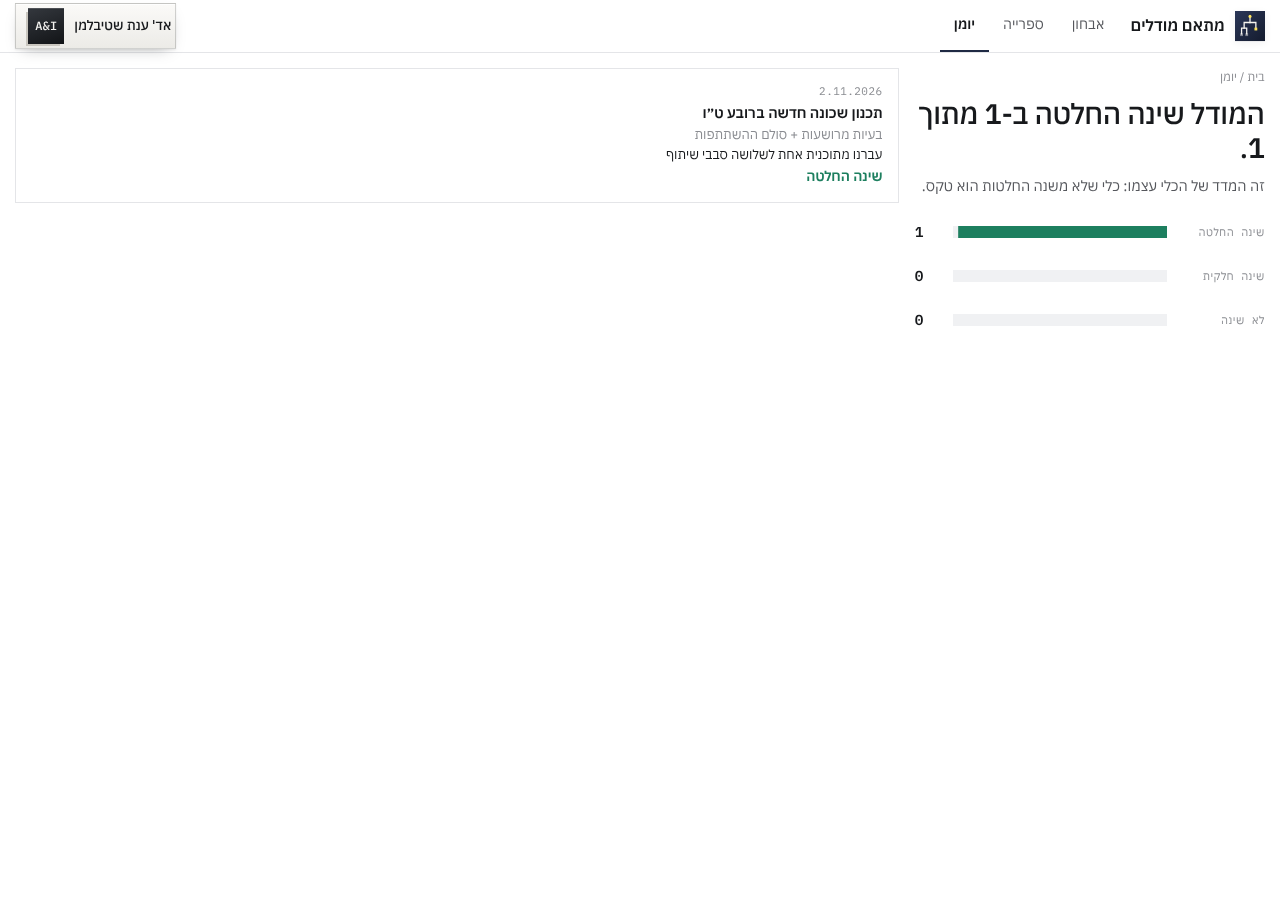
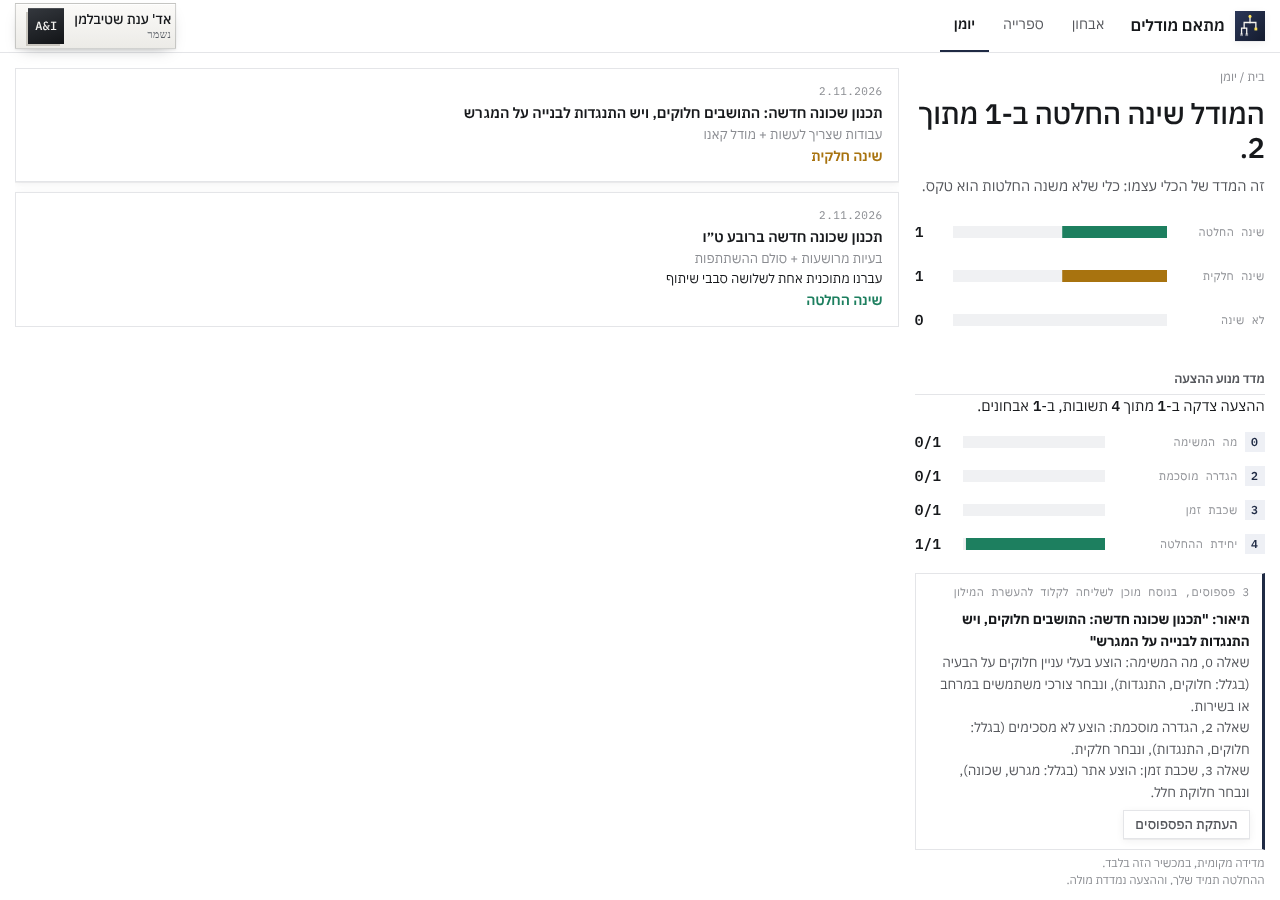
מדד מנוע ההצעה: ההצעה מול הבחירה, והפספוסים ביומן להעשרת המילון
Claude-Session: https://claude.ai/code/session_018qeN19UF5UhFt8VCqdemXm

diff --git a/src/app.js b/src/app.js
@@ -1,12 +1,13 @@
 // מתאם מודלים: ממשק. כל הטקסט התוכני מגיע מ-data/models.json, וההתאמה מ-matcher.js.
 // כל דף הוא קומפוזיציה בגובה המסך: מוקד גרפי אחד, וטורי צד. בנייד: לשוניות במקום גלילה.
-import { match, findModel, labelOf, titleOf, QUESTION_KEYS, suggest } from './matcher.js';
+import { match, findModel, labelOf, titleOf, QUESTION_KEYS, suggest, compareSuggestion } from './matcher.js';
 import { attachVoice } from './voice.js';
 import { glyph, driftChart, optionGlyph, DiagnosisCube, EV_COLOR } from './graphics.js';
 let demoTimer = null;
 
 const LOG_KEY = 'matcher.log.v1';
 const DRAFT_KEY = 'matcher.draft.v1';
+const SUG_KEY = 'matcher.sugg.v1'; // ההצעה האחרונה שהוחלה: התיאור, מה הוצע, ואיזו מילה הובילה
 const DAY = 864e5;
 const app = document.getElementById('app');
 let DATA = null;
@@ -343,6 +344,22 @@ function relative(answers, primary, counter) {
   return `<p class="cap"><strong>איפה הבעיה שלך, ביחס לכל מודל.</strong> פס כהה: המודל הראשי מתאים. פס מקווקו: המודל הנגדי. נקודה אדומה: התשובה שלך.</p>${verdict}<div class="rel scroll-in">${blocks}</div>`;
 }
 
+// ההצעה מול הבחירה: המנוע מודד את עצמו, וכל תיקון שלך מלמד אותו.
+function currentSug(entry) {
+  if (entry?.sugg) return entry.sugg;
+  const s = store.get(SUG_KEY, null);
+  return s && s.text === store.get(DRAFT_KEY, '') ? s : null;
+}
+function sugAgreement(entry, answers) {
+  const s = currentSug(entry);
+  if (!s) return '';
+  const c = compareSuggestion(s.suggested, answers);
+  if (!c.total) return '';
+  return `<div class="sug-agree"><span class="label">ההצעה מהתיאור מול הבחירה שלך</span>
+    <p class="small">${rich(`ההצעה צדקה ב-**${c.agree}** מתוך **${c.total}**.`)}</p>
+    ${c.misses.map((x) => `<span class="line small"><span class="num qn">${QUESTION_KEYS.indexOf(x.key)}</span> ${esc(titleOf(DATA, x.key))}: הוצע ${esc(labelOf(DATA, x.key, x.suggested))}, ונבחר <strong>${esc(labelOf(DATA, x.key, x.chosen))}</strong>.</span>`).join('')}
+    ${c.misses.length ? '<p class="src">הפספוסים נאספים ביומן, כדי להוסיף מילים למילון.</p>' : ''}</div>`;
+}
 function result(params) {
   const answers = answersFrom(params);
   const r = match(DATA, answers);
@@ -378,6 +395,7 @@ function result(params) {
     ${r.status === 'framing' ? `<div class="tone tone-insight"><h4>אין כאן פתרון. יש תהליך מסגור.</h4><p>${lines('בבעיה מרושעת כל הגדרה היא עמדה. המטרה: סבב שיפור מוסכם.')}</p></div>` : ''}
     ${r.notes.filter((n) => r.status !== 'framing' || !n.includes('אין כאן פתרון')).map((n) => `<div class="tone tone-neutral"><p>${lines(n)}</p></div>`).join('')}
     <div class="tone tone-problem"><h4>תווית אזהרה</h4><p>${lines(s.warning)}</p></div>
+    ${sugAgreement(entry, answers)}
     <h2 class="sec">התשובות שלך, לפי סדר השאלות</h2>${answersRows(answers)}`;
 
   const views = [
@@ -579,6 +597,26 @@ function library(parts, params) {
 }
 
 // ---------- יומן ----------
+// מדד מנוע ההצעה: אחוז הסכמה לכל שאלה, והפספוסים בנוסח מוכן לשליחה.
+function sugMetric(log) {
+  const rows = log.filter((e) => e.sugg).map((e) => ({ e, c: compareSuggestion(e.sugg.suggested, e.answers) })).filter((x) => x.c.total);
+  if (!rows.length) return `<p class="src">${lines('מדד מנוע ההצעה יופיע כאן אחרי אבחון שהתחיל מהצעה מתוך תיאור.')}</p>`;
+  const per = QUESTION_KEYS.map((k) => {
+    const had = rows.filter((x) => k in x.e.sugg.suggested);
+    return { k, n: had.length, ok: had.filter((x) => !x.c.misses.some((m) => m.key === k)).length };
+  }).filter((x) => x.n);
+  const agree = rows.reduce((a, x) => a + x.c.agree, 0), total = rows.reduce((a, x) => a + x.c.total, 0);
+  const missed = rows.filter((x) => x.c.misses.length);
+  const misses = missed.flatMap((x) => x.c.misses);
+  const missLine = (x, m) => { const w = x.e.sugg.hits?.[m.key] || []; return `שאלה ${QUESTION_KEYS.indexOf(m.key)}, ${titleOf(DATA, m.key)}: הוצע ${labelOf(DATA, m.key, m.suggested)}${w.length ? ` (בגלל: ${w.join(', ')})` : ''}, ונבחר ${labelOf(DATA, m.key, m.chosen)}.`; };
+  const msg = missed.map((x) => [`תיאור: "${x.e.sugg.text}"`, ...x.c.misses.map((m) => missLine(x, m))].join('\n')).join('\n\n');
+  return `<div class="sug-metric"><h2 class="sec">מדד מנוע ההצעה</h2>
+    <p>${rich(`ההצעה צדקה ב-**${agree}** מתוך **${total}** תשובות, ב-**${rows.length}** אבחונים.`)}</p>
+    ${per.map((x) => `<div class="hbar"><span class="label"><span class="num qn">${QUESTION_KEYS.indexOf(x.k)}</span> ${esc(titleOf(DATA, x.k))}</span><span class="hb"><i class="grow-x" style="width:${(100 * x.ok) / x.n}%;background:var(--bank)"></i></span><span class="num">${x.ok}/${x.n}</span></div>`).join('')}
+    ${misses.length ? `<div class="post"><span class="label">${misses.length} פספוסים, בנוסח מוכן לשליחה לקלוד להעשרת המילון</span><p class="post-t">${msg.split('\n').map((l) => `<span class="line${l.startsWith('תיאור') ? ' d' : ''}">${esc(l)}</span>`).join('')}</p>
+      <div class="row"><button class="press btn btn-quiet" data-copy="misses">העתקת הפספוסים</button><span class="saved copied" aria-live="polite">הועתק</span></div></div>` : `<p class="tone tone-insight small">${rich('==אין פספוסים: המילון כיסה את כל התיאורים עד עכשיו.==')}</p>`}
+    <p class="src">${lines('מדידה מקומית, במכשיר הזה בלבד. ההחלטה תמיד שלך, וההצעה נמדדת מולה.')}</p></div>`;
+}
 function logPage(params) {
   const log = store.get(LOG_KEY, []);
   if (!log.length) {
@@ -592,6 +630,7 @@ function logPage(params) {
     <h1 class="page-title">${rich(`המודל שינה החלטה ב-**${n('yes')}** מתוך **${log.length}**.`)}</h1>
     <p class="lead">${lines('זה המדד של הכלי עצמו: כלי שלא משנה החלטות הוא טקס.')}</p>
     ${bar('yes', 'var(--bank)')}${bar('partial', 'var(--ev-partial)')}${bar('no', 'var(--ink-mute)')}
+    ${sugMetric(log)}
     ${due ? `<div class="tone tone-insight"><h4>${due} אבחונים עברו 30 יום בלי תשובה.</h4><p>${lines('זה הזמן לבדוק: האם התוצר שימש להחלטה?')}</p></div>` : ''}`;
   const list = `<div class="scroll-in stack">${[...log].reverse().map((e) => {
     const r = match(DATA, e.answers);
@@ -652,7 +691,12 @@ function saveDecision(patch) {
   const log = store.get(LOG_KEY, []);
   const sig = JSON.stringify(answers);
   let e = log.find((x) => x.sig === sig);
-  if (!e) { e = { sig, answers, date: new Date().toISOString(), stateId: r.state.id, description: store.get(DRAFT_KEY, '') }; log.push(e); }
+  if (!e) {
+    e = { sig, answers, date: new Date().toISOString(), stateId: r.state.id, description: store.get(DRAFT_KEY, '') };
+    const s = currentSug(null);
+    if (s) e.sugg = s;
+    log.push(e);
+  }
   Object.assign(e, patch);
   if (store.set(LOG_KEY, log)) flashSaved();
 }
@@ -710,6 +754,11 @@ app.addEventListener('click', (ev) => {
   const df = ev.target.closest('.demo-f');
   if (df) { const box = df.closest('[data-demo]'); box.querySelectorAll('.demo-f').forEach((f) => f.classList.toggle('on', f === df)); demoPos(box); return; }
   if (ev.target.closest('[data-print]')) { print(); return; }
+  if (ev.target.closest('[data-apply]')) {
+    const text = store.get(DRAFT_KEY, '');
+    const { answers: suggested, hits } = suggest(DATA, text);
+    store.set(SUG_KEY, { text, suggested, hits });
+  }
   const cp = ev.target.closest('[data-copy]');
   if (cp) {
     const text = [...cp.closest('.post').querySelectorAll('.post-t .line')].map((l) => l.textContent).join('\n');

diff --git a/tests/matcher.test.js b/tests/matcher.test.js
@@ -1,7 +1,7 @@
 import { test } from 'node:test';
 import assert from 'node:assert/strict';
 import { readFileSync } from 'node:fs';
-import { match, findModel, QUESTION_KEYS, suggest } from '../src/matcher.js';
+import { match, findModel, QUESTION_KEYS, suggest, compareSuggestion } from '../src/matcher.js';
 
 const data = JSON.parse(readFileSync(new URL('../data/models.json', import.meta.url), 'utf8'));
 
@@ -224,4 +224,12 @@ test('כל ערך במילון הוא תשובה קיימת', () => {
   const valid = Object.fromEntries(data.questions.map((q) => [q.id, q.options.map((o) => o.id)]));
   valid.intent = data.intents.map((i) => i.id);
   for (const [k, vals] of Object.entries(data.lexicon)) for (const v of Object.keys(vals)) assert.ok(valid[k]?.includes(v), `${k}=${v}`);
+});
+
+test('השוואת הצעה לבחירה: כמה צדקה, ואיפה תוקנה', () => {
+  const r = compareSuggestion({ agreement: 'no', layer: 'site', unit: 'public' }, { agreement: 'no', layer: 'space', unit: 'public', data: 'yes' });
+  assert.equal(r.total, 3);
+  assert.equal(r.agree, 2);
+  assert.deepEqual(r.misses, [{ key: 'layer', suggested: 'site', chosen: 'space' }]);
+  assert.deepEqual(compareSuggestion({}, { layer: 'site' }), { total: 0, agree: 0, misses: [] });
 });

diff --git a/src/styles.css b/src/styles.css
@@ -630,3 +630,15 @@ a.card.ccard, a.card.mcard { display: grid; }
 .sg-row { display: grid; grid-template-columns: 22px 90px minmax(0, 1fr); gap: 6px; align-items: baseline; font-size: 13px; }
 .sg-w { grid-column: 3; font-size: 12px; color: var(--ink-soft); }
 .sugg .btn { align-self: flex-start; margin-top: 4px; }
+
+/* ההצעה מול הבחירה: מדד אמינות של מנוע ההצעה (סעיף 7) */
+.sug-agree { border-inline-start: 2px solid var(--ink); padding: 8px 12px; margin: 12px 0; background: var(--paper, #fff); box-shadow: 0 1px 3px rgba(31,42,68,.08); }
+.sug-agree .line { display: block; margin-top: 4px; }
+.sug-metric { margin-top: 16px; }
+.sug-metric .post { margin-top: 12px; }
+.sug-metric .post-t .line:empty { display: block; height: 8px; }
+.sug-metric .hbar { grid-template-columns: 9.5rem 1fr 2.5rem; }
+.sug-metric .hbar .label { white-space: nowrap; }
+.sug-metric .post-t .line { font-weight: 400; font-size: inherit; color: var(--ink-soft, var(--ink)); }
+.sug-metric .post-t .line.d { font-weight: 700; color: var(--ink); margin-top: 8px; }
+.sug-metric .post-t .line.d:first-child { margin-top: 0; }

diff --git a/src/matcher.js b/src/matcher.js
@@ -130,3 +130,10 @@ export function suggest(data, description) {
   }
   return { answers, hits };
 }
+
+// השוואה בין ההצעה לבין מה שנבחר בפועל: כך המנוע מודד את האמינות של עצמו (סעיף 7 בהנחיות).
+export function compareSuggestion(suggested, final) {
+  const keys = Object.keys(suggested || {});
+  const misses = keys.filter((k) => final[k] !== suggested[k]).map((k) => ({ key: k, suggested: suggested[k], chosen: final[k] }));
+  return { total: keys.length, agree: keys.length - misses.length, misses };
+}
